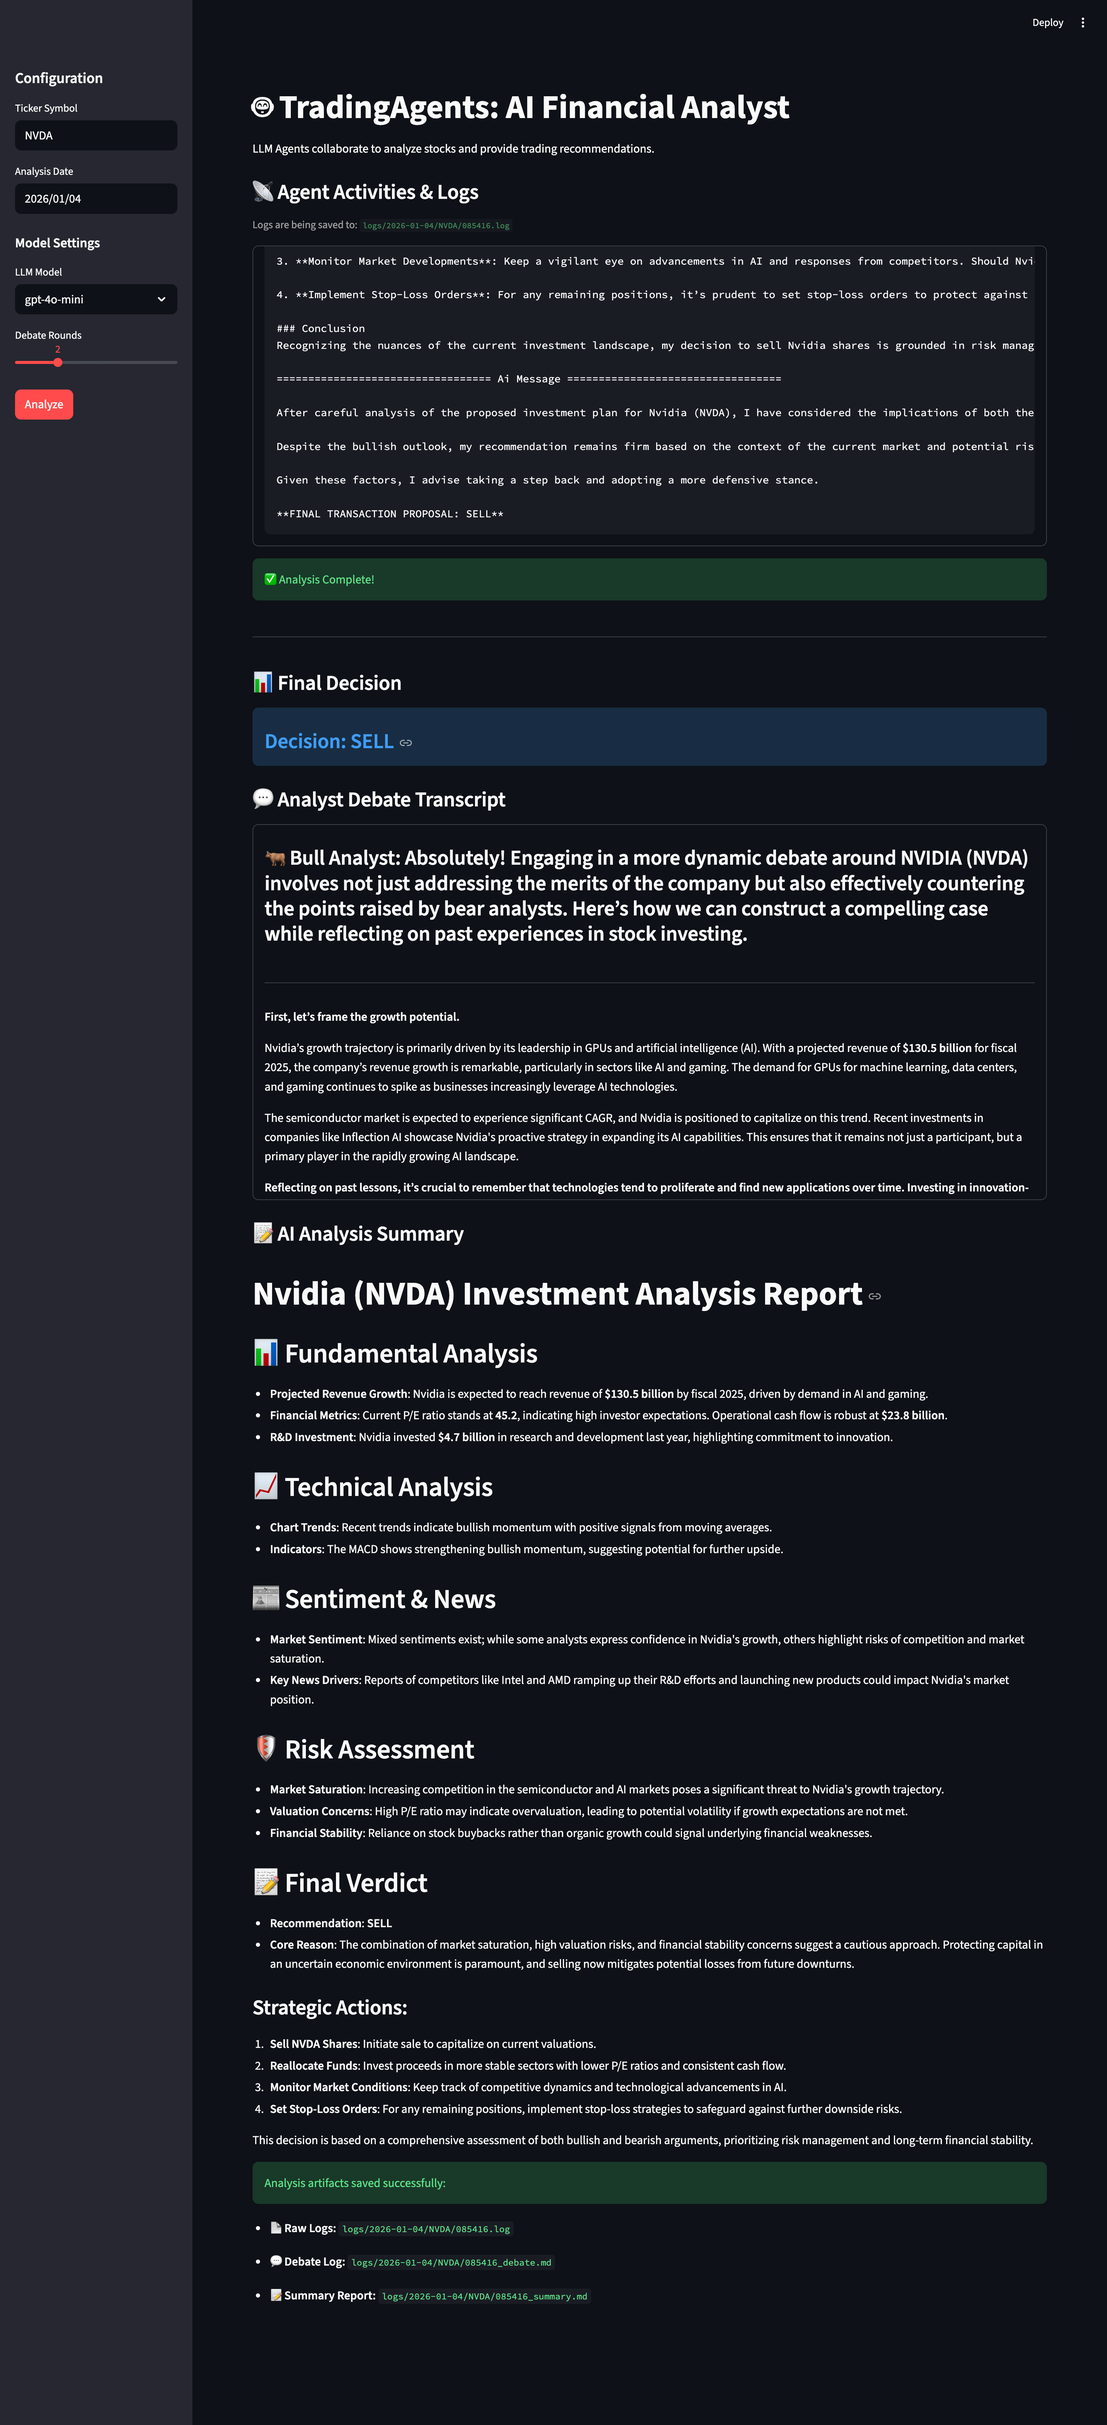
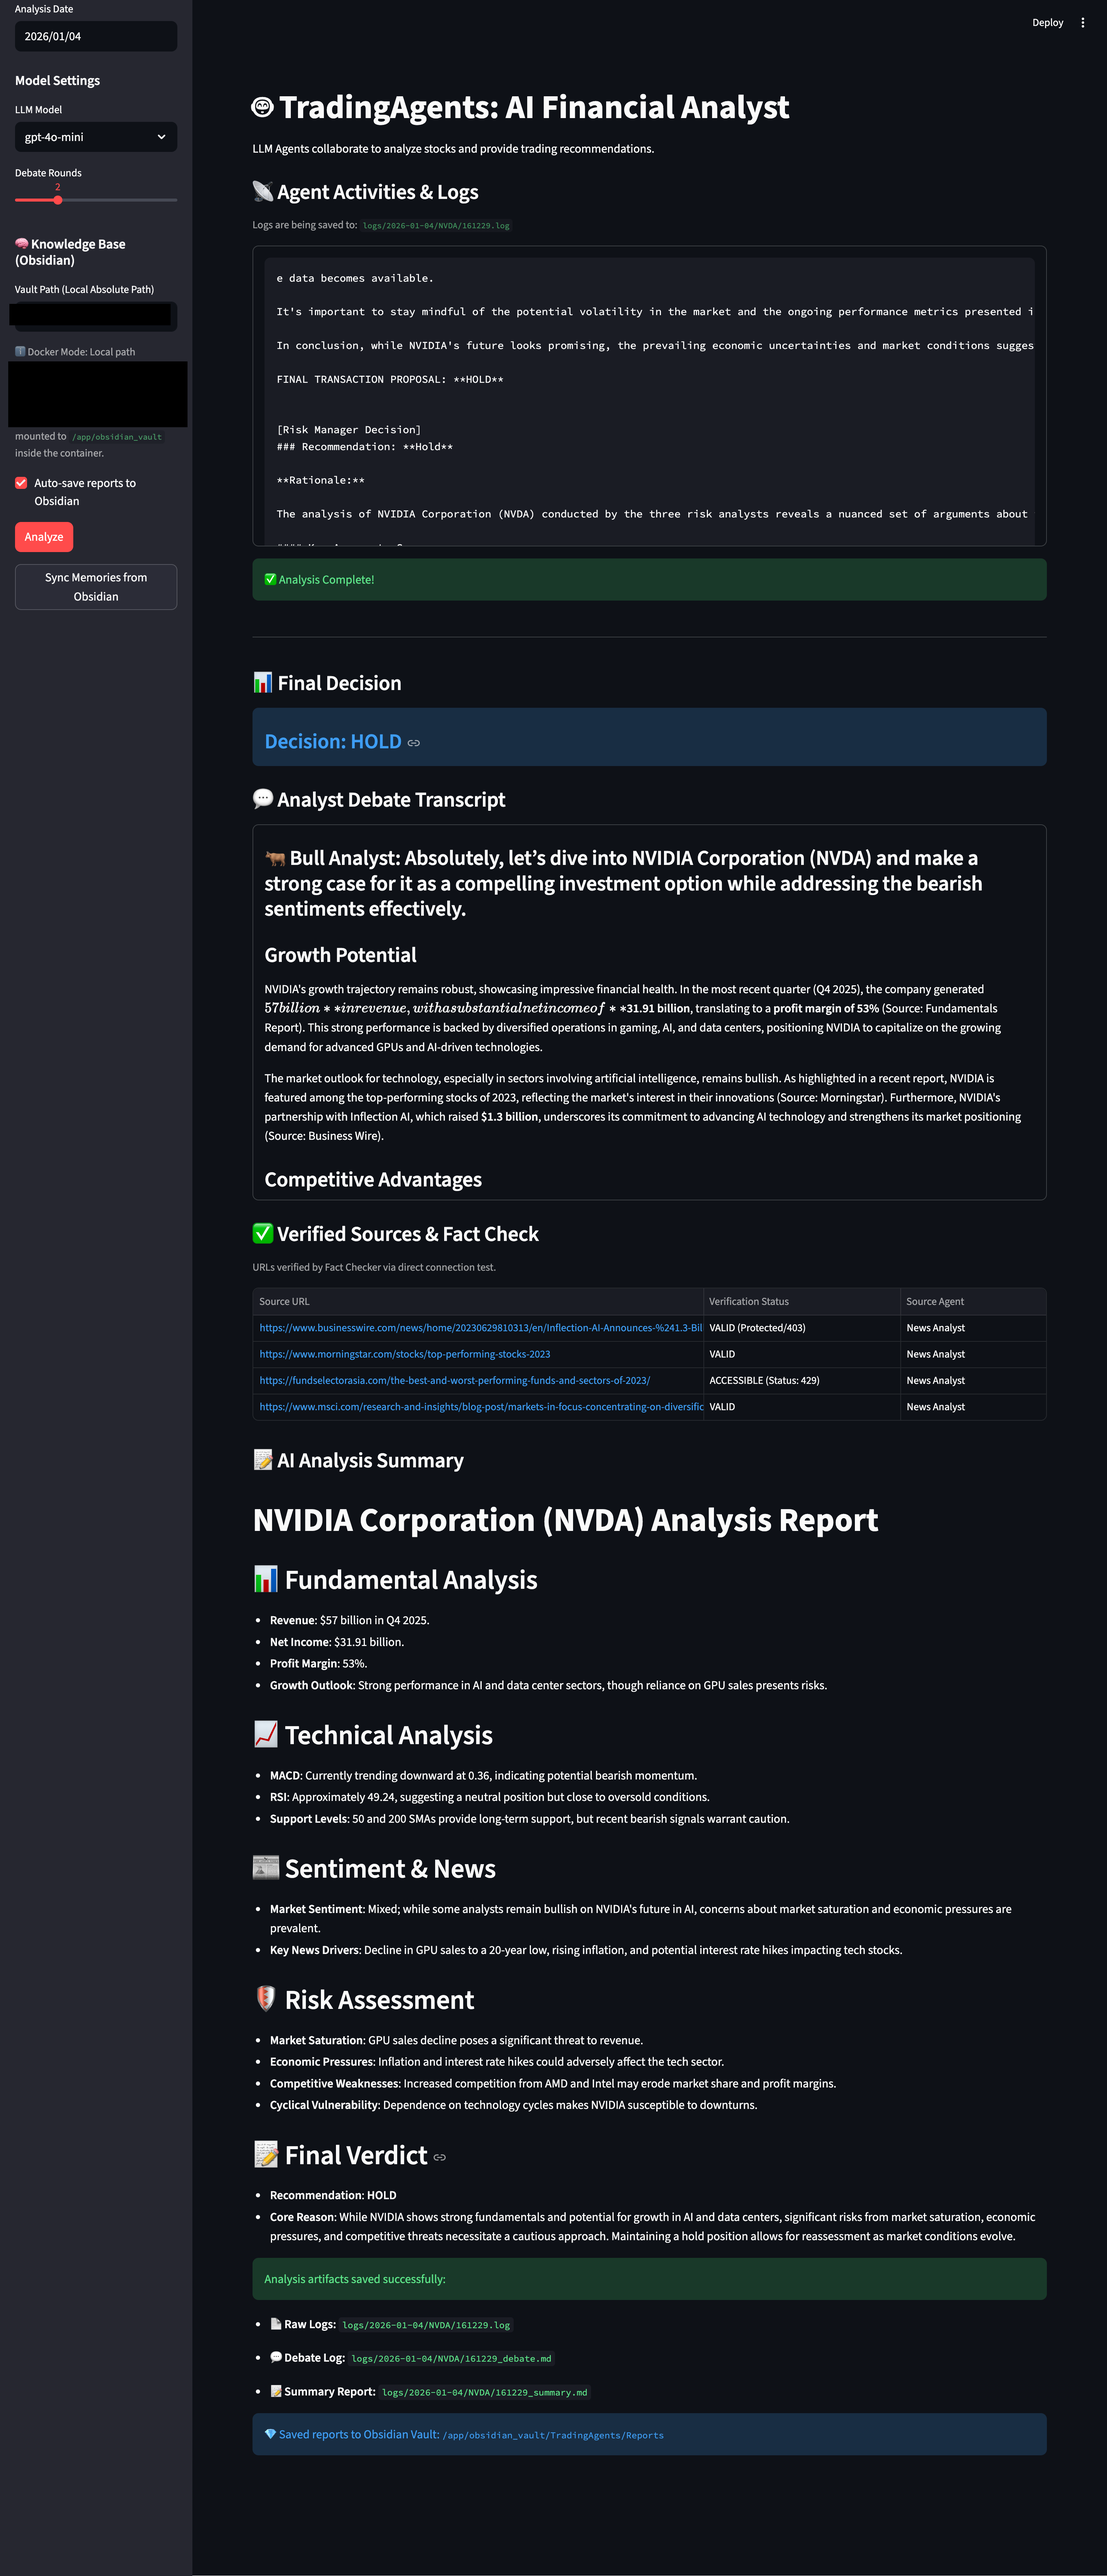
docs: Update dashboard screenshot, memory utils, and README

diff --git a/tradingagents/agents/utils/memory.py b/tradingagents/agents/utils/memory.py
@@ -55,16 +55,77 @@ class FinancialSituationMemory:
         )
 
         matched_results = []
-        for i in range(len(results["documents"][0])):
-            matched_results.append(
-                {
-                    "matched_situation": results["documents"][0][i],
-                    "recommendation": results["metadatas"][0][i]["recommendation"],
-                    "similarity_score": 1 - results["distances"][0][i],
-                }
-            )
+        if results["documents"]:
+            for i in range(len(results["documents"][0])):
+                matched_results.append(
+                    {
+                        "matched_situation": results["documents"][0][i],
+                        "recommendation": results["metadatas"][0][i]["recommendation"],
+                        "similarity_score": 1 - results["distances"][0][i],
+                    }
+                )
 
         return matched_results
+
+    def load_from_obsidian(self, vault_path):
+        """Load markdown files from an Obsidian vault into memory"""
+        import os
+        import glob
+        
+        if not os.path.exists(vault_path):
+            return f"Error: Obsidian path not found: {vault_path}"
+
+        md_files = glob.glob(os.path.join(vault_path, "**/*.md"), recursive=True)
+        new_data = []
+        count = 0
+        
+        for file_path in md_files:
+            try:
+                # Skip system files or hidden files
+                if "/." in file_path or "\\." in file_path:
+                    continue
+                    
+                with open(file_path, 'r', encoding='utf-8') as f:
+                    content = f.read()
+                    if not content.strip():
+                        continue
+                        
+                    filename = os.path.basename(file_path)
+                    
+                    # Strategy: Use Filename + Start of content as 'Situation' context
+                    # Use full content as 'Recommendation/Knowledge'
+                    # This allows retrieving the note when context matches the title/intro
+                    situation_context = f"Note Title: {filename}\nContext: {content[:300]}"
+                    
+                    new_data.append((situation_context, content))
+                    count += 1
+            except Exception as e:
+                print(f"Failed to read {file_path}: {e}")
+        
+        if new_data:
+            self.add_situations(new_data)
+            return f"Successfully loaded {count} notes from Obsidian vault."
+        else:
+            return "No markdown files found in the specified path."
+
+    def save_to_obsidian(self, content, filename, vault_path, folder="TradingAgents/Reports"):
+        """Save a report to the Obsidian vault"""
+        import os
+        
+        if not os.path.exists(vault_path):
+            return False, f"Vault path not found: {vault_path}"
+            
+        full_dir = os.path.join(vault_path, folder)
+        os.makedirs(full_dir, exist_ok=True)
+        
+        file_path = os.path.join(full_dir, filename)
+        
+        try:
+            with open(file_path, "w", encoding="utf-8") as f:
+                f.write(content)
+            return True, f"Saved to {file_path}"
+        except Exception as e:
+            return False, f"Failed to save: {str(e)}"
 
 
 if __name__ == "__main__":

diff --git a/README.md b/README.md
@@ -1,7 +1,7 @@
-# 📈 TradingAgents-Dashboard
+# 📈 TradingAgents-Dashboard (Personal Trading Room)
 
-> 🚀 **A Dockerized web dashboard for [TradingAgents](https://github.com/TauricResearch/TradingAgents).**  
-> Features improved UI/UX, real-time logging, and easy deployment with Docker.
+> 🚀 **Your Personal AI Analyst with Long-term Memory.**  
+> A Dockerized dashboard that turns [TradingAgents](https://github.com/TauricResearch/TradingAgents) into a personalized trading assistant. It not only analyzes the market but also **remembers your insights via [Obsidian](https://obsidian.md).**
 
 <details>
 <summary>📸 <strong>Click to view Dashboard Screenshot</strong></summary>
@@ -12,22 +12,29 @@
 </p>
 </details>
 
+## 🎯 Project Goal: "Data Persistence & Growth"
+Most AI trading tools are "stateless"—they analyze and forget.  
+**TradingAgents-Dashboard** is designed for individual traders who want to **accumulate knowledge**.
+
+1.  **Visualize:** No more terminal logs. Watch agents debate in a clean Web UI.
+2.  **Persist:** External news links rot, and data disappears. This tool auto-saves the full analysis context to your local **[Obsidian Vault](https://obsidian.md)**, ensuring your knowledge base remains intact forever.
+3.  **Grow:** Agents retrieve your past notes (RAG) to learn from previous successes and mistakes.
+> *Your trading data belongs to you, forever.*
+
 ## ✨ Key Features
-- **Dockerized Setup:** One-command deployment using Docker Compose.
-- **Web Dashboard:** Interactive UI built with Streamlit for easy ticker/date selection.
-- **Real-time Logging:** View internal agent thoughts and debates directly in the browser.
-- **Persistent Logs:** Analysis logs are automatically saved to `logs/YYYY-MM-DD/TICKER/`.
-- **Debate Transcript:** Extracts specific analyst discussions into a readable `_debate.md` file.
-- **Auto-Summary:** Generates and saves a structured AI summary report (`_summary.md`) alongside the logs.
-- **✅ Fact Checker with URL Verification:** Automatically verifies if cited news URLs are physically accessible and valid (prevents hallucinations).
-- **🧠 Obsidian Memory Integration:** Syncs your analysis reports with an Obsidian Vault for long-term memory and knowledge retrieval.
+- **Dockerized Setup:** One-command deployment (`docker-compose up`).
+- **Web Dashboard:** Interactive UI built with Streamlit.
+- **🧠 Obsidian Memory:** Syncs analysis reports with your local vault for long-term retention.
+- **✅ Fact Checker:** Physically validates news URLs to prevent hallucinations.
+- **Debate Transcript:** Extracts key arguments into readable markdown.
+- **Auto-Summary:** Generates structured AI summary reports (`_summary.md`).
 
 ## 🐳 Quick Start
 
 ### Prerequisites
 - Docker & Docker Compose
 - OpenAI API Key
-- Alpha Vantage API Key (Optional, but recommended for detailed data)
+- Obsidian Vault (Optional, for memory features)
 
 ### Installation & Run
 1. **Clone the repository:**
@@ -39,28 +46,14 @@
 2. **Configure Environment:**
    ```bash
    cp .env.example .env
-   # Edit .env and add your API keys:
-   # OPENAI_API_KEY=sk-... (Required)
-   # ALPHA_VANTAGE_API_KEY=... (Optional - Defaults to yfinance/Google if missing)
+   # Edit .env and add your API keys
    ```
 
 3. **(Optional) Mount Obsidian Vault:**
-   To use the **Memory Integration** feature, you can either manually mount the volume in `docker-compose.yml` or simply add your local path to the `.env` file.
-
-   **Method A: Using .env (Recommended)**
-   Add your local Obsidian Vault absolute path to `.env`:
+   To use the **Memory Integration** feature, simply add your local Obsidian path to `.env`:
    ```bash
+   # Recommended: Add to .env
    OBSIDIAN_VAULT_PATH="/Users/yourname/Documents/ObsidianVault"
-   ```
-
-   **Method B: Manual Docker Volume**
-   Edit `docker-compose.yml`:
-   ```yaml
-   services:
-     trading-agents:
-       volumes:
-         # ... existing volumes ...
-         - /Users/yourname/Documents/ObsidianVault:/app/obsidian_vault
    ```
 
 4. **Run with Docker:**
@@ -71,41 +64,26 @@
 5. **Access Dashboard:**
    Open [http://localhost:8501](http://localhost:8501) in your browser.
 
-## 🚀 Roadmap
-You can easily run this yourself using Docker. I plan to update the UI whenever I have free time.
-
-The **next milestone** is to build a **"Watchlist Dashboard"** where you can set up your favorite stocks and view them all at a glance.
-
----
-
 ## 🛠 Advanced Features
+
+### 🧠 Obsidian Integration (Long-term Memory)
+Connect your Obsidian Vault to give the agents "Long-term Memory". This ensures that even if original news links rot or data is lost online, your personal knowledge base remains preserved and reusable.
+
+1.  **Sync (Memorize):** Click `Sync Memories` to load `.md` notes from your vault into the vector DB. The AI indexes your notes as "Situations" (Title/Context) and "Knowledge" (Content).
+2.  **Retrieve (Recall):** During analysis, agents automatically search your vault for past market situations similar to the current one.
+    *   *Example:* "Last time inflation rose while tech stocks fell, I noted that defensive sectors outperformed." -> Agents will recall this note and apply it to today's decision.
+3.  **Auto-Save (Record):** Analysis reports (`_summary.md`, `_debate.md`) are automatically saved to `YourVault/TradingAgents/Reports/` for future reference.
 
 ### ✅ Fact Checker (URL Verification)
 The enhanced Fact Checker agent now **physically pings** URLs cited in news reports.
 - **Validates Sources:** Checks if the link returns 200 OK.
-- **Anti-Bot Handling:** Treats 403 Forbidden as `VALID (Protected)` to avoid false positives on sites like Bloomberg or WSJ.
+- **Anti-Bot Handling:** Treats 403 Forbidden as `VALID (Protected)` to avoid false positives.
 - **Prevents Hallucinations:** Flags claims based on dead or non-existent links.
-
-### 🧠 Obsidian Integration (Long-term Memory)
-Connect your Obsidian Vault to give the agents "Long-term Memory". This allows the AI to learn from your past notes and trading journals.
-
-1. **Sync (Memorize):** Click `Sync Memories` in the dashboard to load `.md` notes from your vault into the vector DB. The AI indexes your notes as "Situations" (Title/Context) and "Knowledge" (Content).
-2. **Retrieve (Recall):** During analysis, the agents automatically search your vault for past market situations similar to the current one.
-   - *Example:* "Last time inflation rose while tech stocks fell, I noted that defensive sectors outperformed." -> Agents will see this note and apply it to today's decision.
-3. **Auto-Save (Record):** Analysis reports (`_summary.md`, `_debate.md`) are automatically saved to `YourVault/TradingAgents/Reports/` for future reference.
-
 
 ---
 
 ## 🏗 Architecture (Original)
 This project wraps the **TradingAgents** framework, a multi-agent system that simulates a real-world trading firm.
-
-<details>
-<summary>Click to see architecture diagram</summary>
-<p align="center">
-  <img src="assets/schema.png" style="width: 100%; height: auto;">
-</p>
-</details>
 
 - **Analyst Team:** Fundamentals, Sentiment, News, Technical Analysts.
 - **Researcher Team:** Bull/Bear debate and consensus.
